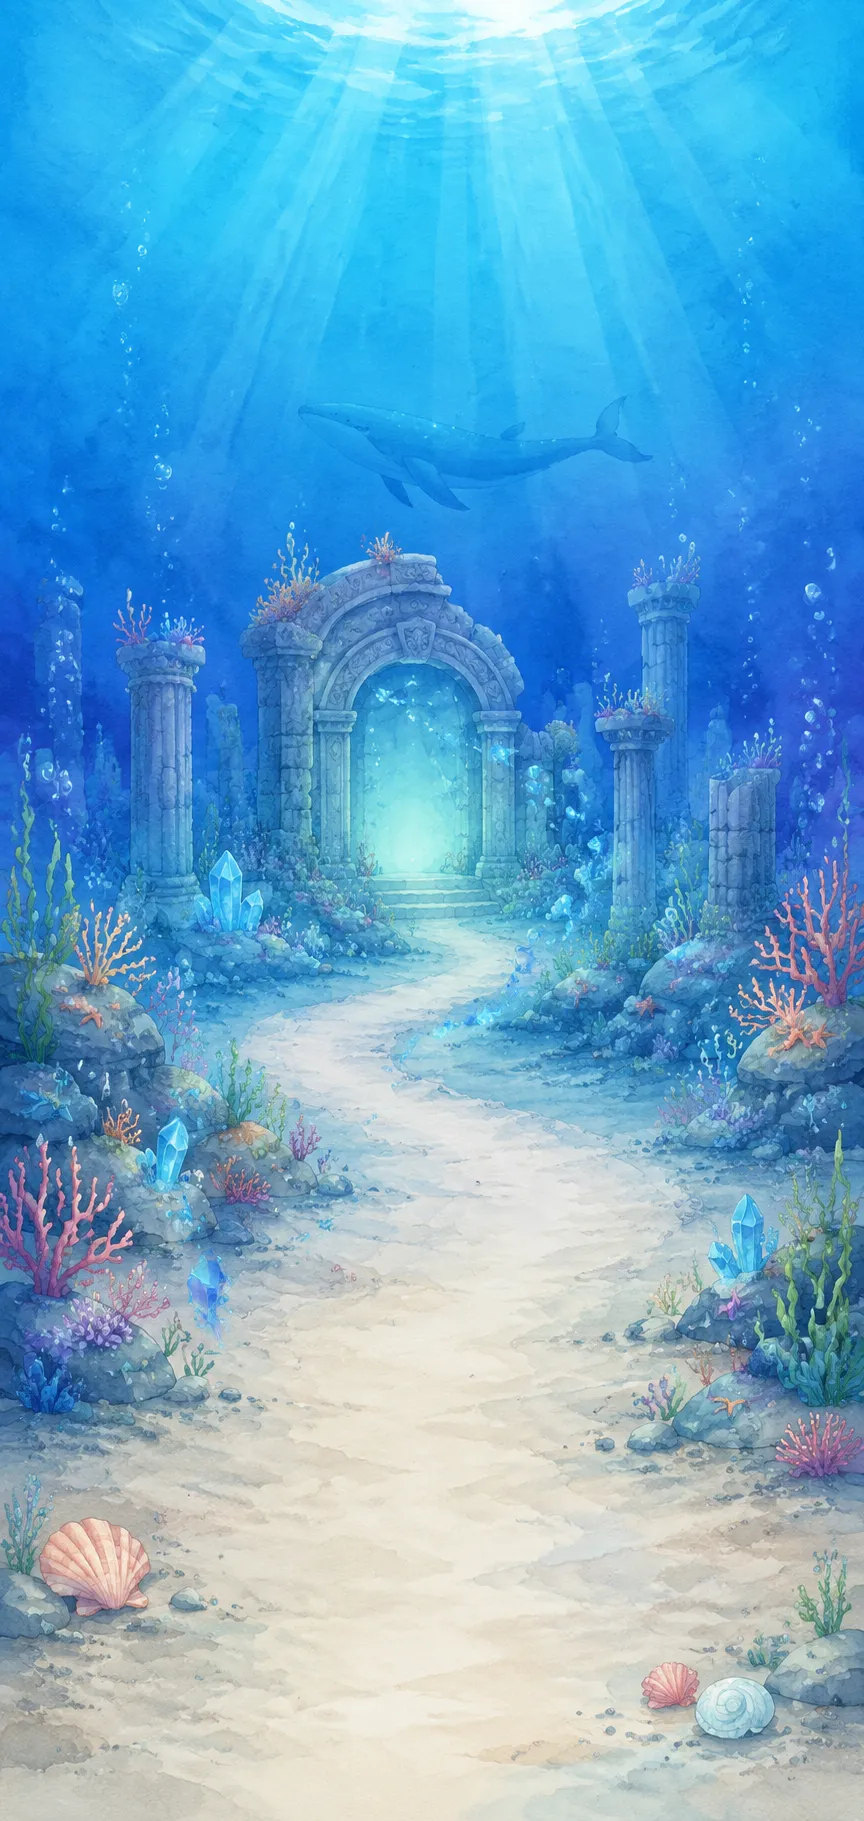
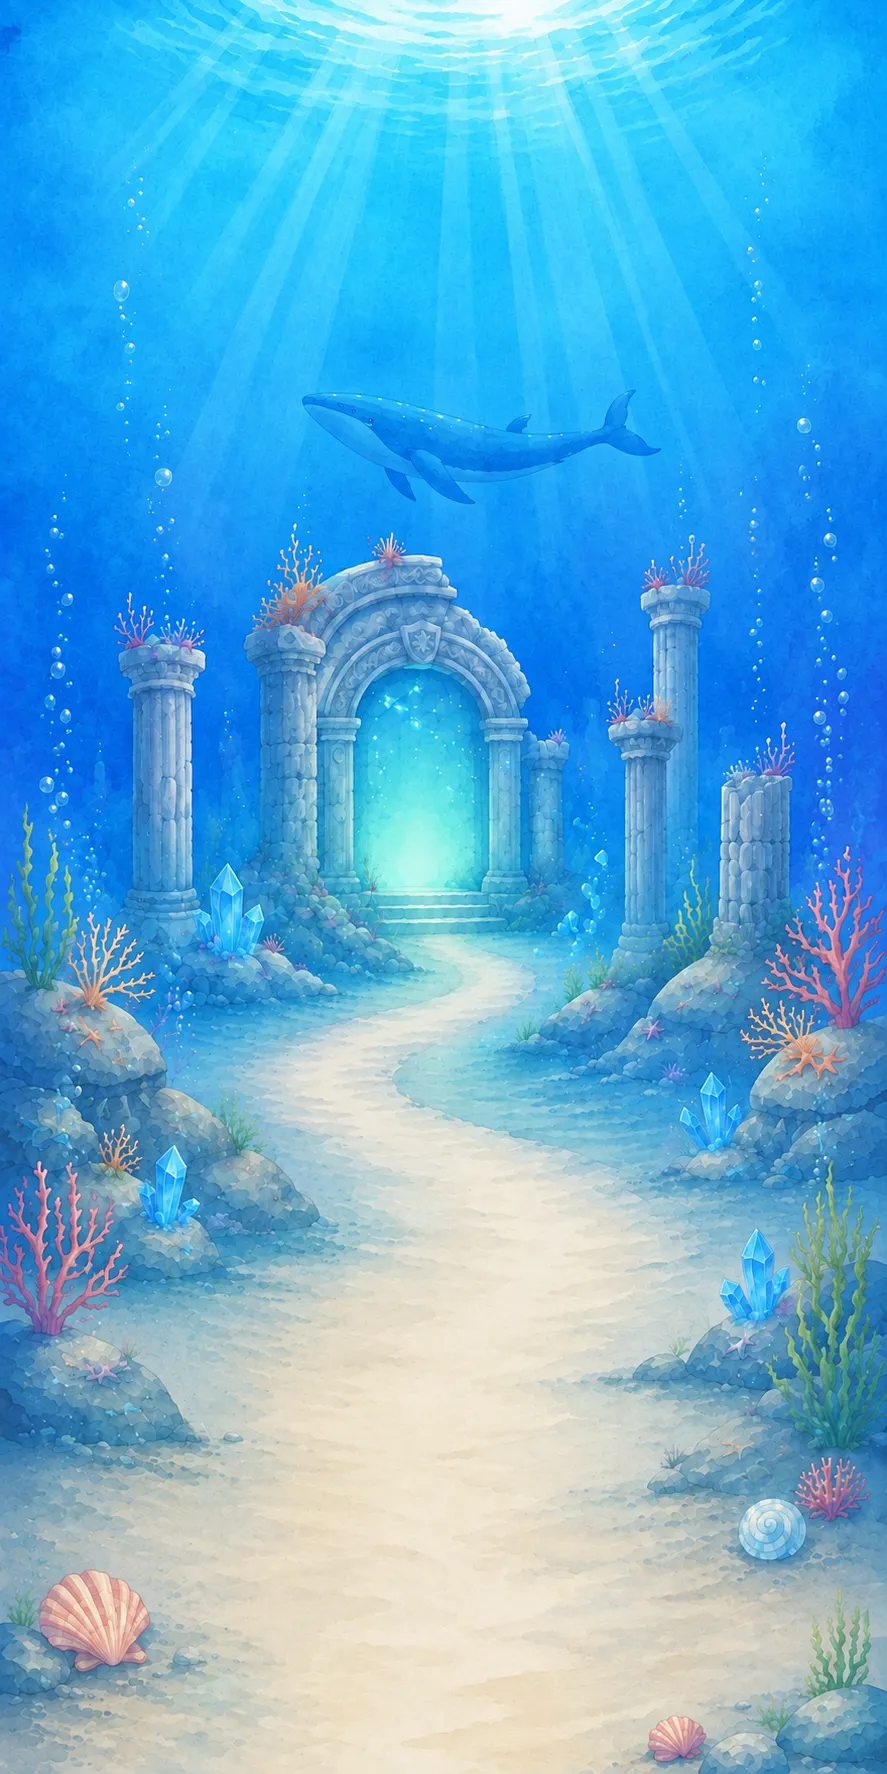
별빛 심해 원화 v2 로 교체
받은 새 판(887×1774 = 1:2.00). v1(864×1821)과 구도는 같고 아치가 커지고
모랫길이 넓어져 캐릭터가 설 자리가 여유롭다.

  public/assets/stage-bg-deepsea.webp   webp q80 · 159KB (v1 180KB)
  art-src/bg-deepsea-v2-src.webp        webp q92 · 330KB

규칙 6 — 구버전 정리
· public/assets 는 같은 이름으로 덮어썼다
· art-src/bg-deepsea-v1-src.webp 삭제, README 의 v1 행도 v2 로 교체
  (되돌릴 일은 git 히스토리에서 꺼낸다)

무대 칸이 1:2.09 라 이 그림(1:2.00)은 objectFit:cover 로 좌우가 각 2% 정도
잘린다. 잘리는 자리가 물색·바위라 티가 안 나서 그대로 둔다.

화면 확인 (390×844 / 360×640): 캐릭터가 넓어진 모랫길 한가운데 서고,
tint(밝은 청록 0.16)가 빛줄기를 안 죽인다. 떠다니는 🐙 🐠 도 그림 위에서 보인다.
빌드 통과.

Claude-Session: https://claude.ai/code/session_018maNuYqDfFyRSe9uKpZhPR

diff --git a/art-src/README.md b/art-src/README.md
@@ -228,4 +228,4 @@ getBoundingClientRect로 재서 정한다. 2026-08-05 점검에서 이 기준을
 | adventure-map-short-v3-src.webp | 탐험지도 짧은 판 v3 (922×1706 — 학원 0~3곳용). v2와 길이 거의 같아(기존 85점 중 83점이 그대로 길 위) 좌표는 손대지 않았다 | adventure-map-short.webp |
 | camp-bag-v2-src.webp | 캐릭터 탭 가방 카드 '빈 틀' v2 (1260×860 = 비율 1.465, 투명 = 표시 359px의 3.5배). 세로는 그대로 두고 가로만 넓힌 판 — 종이면이 넓어져 "👑 Lv.20 전설의 탐험가"가 한 줄에 들어간다. 안쪽 종이면 x 9.9~90.0% · y 24.1~86.7%(실측)에 레벨·진행막대·코인/XP를 앱이 그린다 — 값이 매일 바뀌므로 그림에 넣지 않는다. 좁은 v1(1000×862)은 규칙 6에 따라 삭제 | camp/bag.webp |
 | camp-{deco,item,box,pet,book,title,streak,history}-v2-src.webp | 캐릭터 탭 격자 아이콘 **8종 전부** (490×490 정사각 = 표시 138px의 3.5배, 받침 없이 캔버스를 꽉 채운 판). 앱이 정사각 칸에 objectFit:contain 으로 넣으므로 여덟 칸의 무게가 저절로 맞는다. 그루터기 붙은 v1은 규칙 6에 따라 삭제 | camp/st-*.webp |
-| bg-deepsea-v1-src.webp | 꾸미기 배경 '별빛 심해' 원화 v1 (864×1821 = 1:2.11 — 무대 칸 비율 1:2.09 와 거의 같아 잘림이 없다). 해저 신전 아치 + 수면 빛줄기 + 고래 실루엣 + 모랫길.  받은 그대로 톤 보정 없음. art-src 는 q92(426KB), 배포본은 q80(180KB) — 300% 확대에서도 차이가 없고 프리로드 대상이라 무게를 줄였다 | stage-bg-deepsea.webp |
+| bg-deepsea-v2-src.webp | 꾸미기 배경 '별빛 심해' 원화 v2 (887×1774 = 1:2.00). v1(864×1821)과 구도는 같고 아치가 커지고 모랫길이 넓어진 판. 무대 칸(1:2.09)보다 살짝 납작해 objectFit:cover 로 좌우가 각 2% 정도 잘리는데, 잘리는 자리가 물색·바위라 티가 안 난다. 받은 그대로 톤 보정 없음. art-src 는 q92, 배포본은 q80 — 300% 확대에서도 차이가 없고 프리로드 대상이라 무게를 줄였다 | stage-bg-deepsea.webp |
